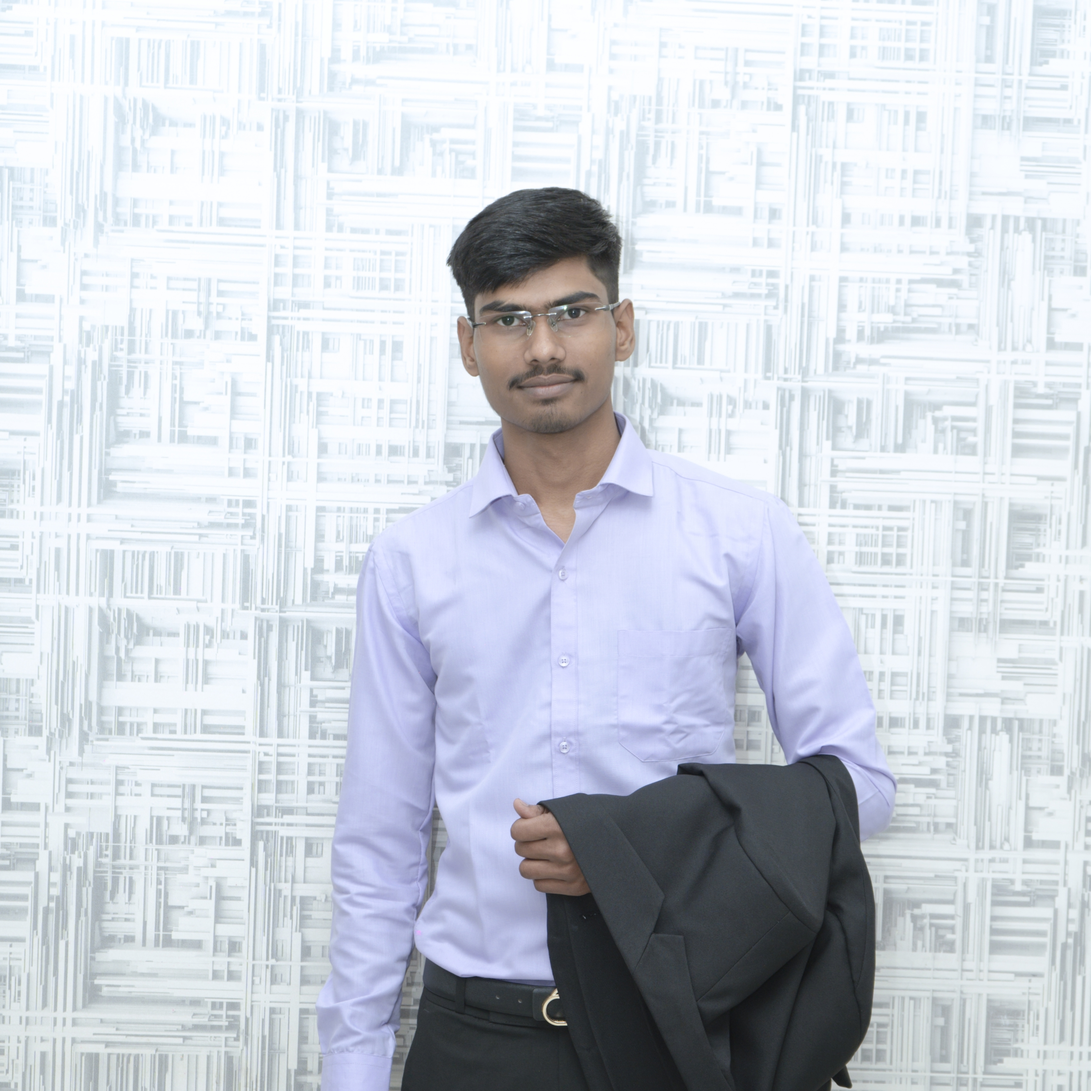
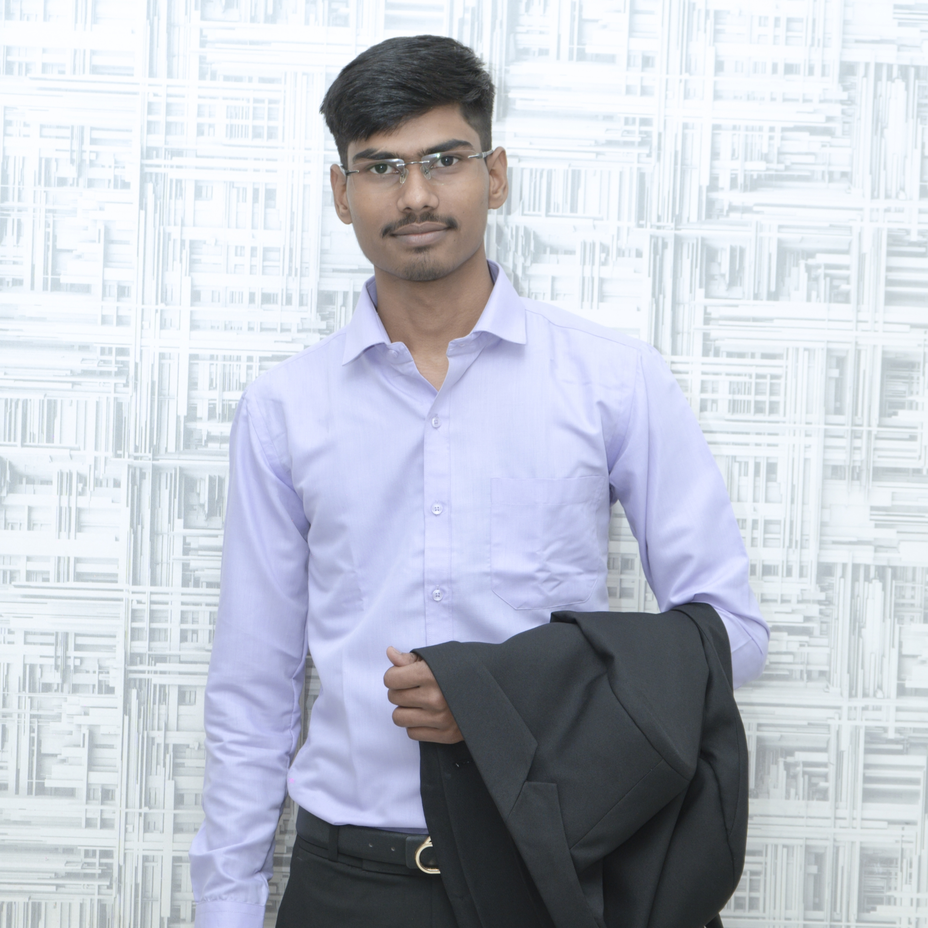
add contact

diff --git a/src/app/page.tsx b/src/app/page.tsx
@@ -3,8 +3,8 @@ import 'bootstrap/dist/css/bootstrap.min.css';
 import Image from 'next/image'
 import styles from './page.module.css'
 import { Container, Row, Col } from 'react-bootstrap'
-import { sheetingWithDesktop } from '@/config/ImgPath'
-import { GRAY, LIGHTBLACK, PRIMARY, WHITE } from '@/config/Colors';
+import { callIcon, joydeepsetua, mailIcon, sheetingWithDesktop } from '@/config/ImgPath'
+import { GRAY, LIGHTBLACK, FOOTER, PRIMARY, WHITE } from '@/config/Colors';
 import { SKILLS, PROJECTS, SOCIAL_MEDIA, THEME_SKILLS } from '../config/Constant';
 import { Comforter_Brush } from 'next/font/google';
 import { motion } from "framer-motion"
@@ -176,8 +176,73 @@ export default function Home() {
         </Container>
       </div>
 
+      {/* Contact */}
+      <div id='contact' style={{ backgroundColor: LIGHTBLACK, color: WHITE, justifyContent: 'center' }} className='m-0 pb-5'>
+        <Container>
+          <div className='d-flex justify-content-center m-3'>
+            <h3 style={{ fontFamily: 'monospace' }}>Contact Me</h3>
+          </div>
+          <Row>
+            <Col>
+              <div style={{ textAlign: 'center' }}>
+                <motion.main
+                  variants={left_to_right}
+                  initial="hidden"
+                  animate="enter"
+                  transition={{ type: "linear" }}
+                >
+                  <Image
+                    className={`p-1 animate-photo`}
+                    src={joydeepsetua}
+                    alt="Profile photo"
+                    width={300}
+                    height={300}
+                    style={{ borderRadius: '50%' }}
+                    priority
+                  />
+                </motion.main>
+              </div>
+            </Col>
+            <Col lg={6} style={{ color: '#ffff' }} className={`d-flex align-items-center p-1`}>
+              <div style={{ textAlign: 'center', marginTop:20 }}>
+                <motion.main
+                  variants={right_to_left}
+                  initial="hidden"
+                  animate="enter"
+                  transition={{ type: "linear" }}
+                >
+                  <a style={{ fontFamily: 'monospace', color: 'lightgray' }}>+91 9713231022</a><br />
+                  <a style={{ fontFamily: 'monospace', color: 'lightgray' }}>joydeepsetua86@gmail.com</a>
+
+                  <div className='d-flex justify-content-center mt-4'>
+                    {SOCIAL_MEDIA.map((item: any) => {
+                      const [isHover, setIsHover] = React.useState(false)
+                      return (
+                        <div key={item.id} className='p-0 m-2' style={{ zIndex: 100, cursor: 'pointer' }}
+                          onMouseEnter={() => setIsHover(true)}
+                          onMouseLeave={() => setIsHover(false)}>
+                          <a className='d-flex justify-content-center align-items-center' href={item.url} target='_blank'>
+                            <Image
+                              src={isHover ? item.path_fill : item.path_outline}
+                              alt={item.title}
+                              width={item.width}
+                              height={item.height}
+                              className='d-flex justify-content-center align-items-center'
+                            />
+                          </a>
+                        </div>
+                      )
+                    })}
+                  </div>
+                </motion.main>
+              </div>
+            </Col>
+          </Row>
+        </Container>
+      </div>
+
       {/* Footer */}
-      <div id='footer' style={{ backgroundColor: LIGHTBLACK, padding: 20, color: WHITE, justifyContent: 'center' }} className='m-0'>
+      <div id='footer' style={{ backgroundColor: FOOTER, padding: 20, color: WHITE, justifyContent: 'center' }} className='m-0'>
         <Container>
           <Row style={{ alignContent: 'center', justifyContent: 'center' }}>
             <Col lg={6} className='d-flex justify-content-center'>

diff --git a/src/config/ImgPath.tsx b/src/config/ImgPath.tsx
@@ -1,5 +1,6 @@
 // Images
 export const profileImage = '/joydeep.jpeg';
+export const joydeepsetua = '/joydeepsetua.jpg';
 export const sheetingWithDesktop = '/sheetingwithdesktop.svg';
 
 // Logo
@@ -55,4 +56,7 @@ export const youtubeFill = '/socialmedia/youtube-fill.svg';
 export const youtubeOutline = '/socialmedia/youtube-outline.svg';
 export const stackOverflowFill = '/socialmedia/stack-overflow-fill.svg';
 export const stackOverflowOutline = '/socialmedia/stack-overflow-outline.svg';
+
+export const callIcon = '/call.png';
+export const mailIcon = '/mail.png';
 

diff --git a/src/config/Colors.tsx b/src/config/Colors.tsx
@@ -1,6 +1,6 @@
 export const PRIMARY = '#39cbf9cc';
 export const LIGHTBLACK = '#171c22';
-export const NAVBAR = '#212934';
+export const FOOTER = '#212934';
 export const GRAY = '#c0c0c0';
 export const BLACK = '#000000';
 export const WHITE = '#ffffff';
